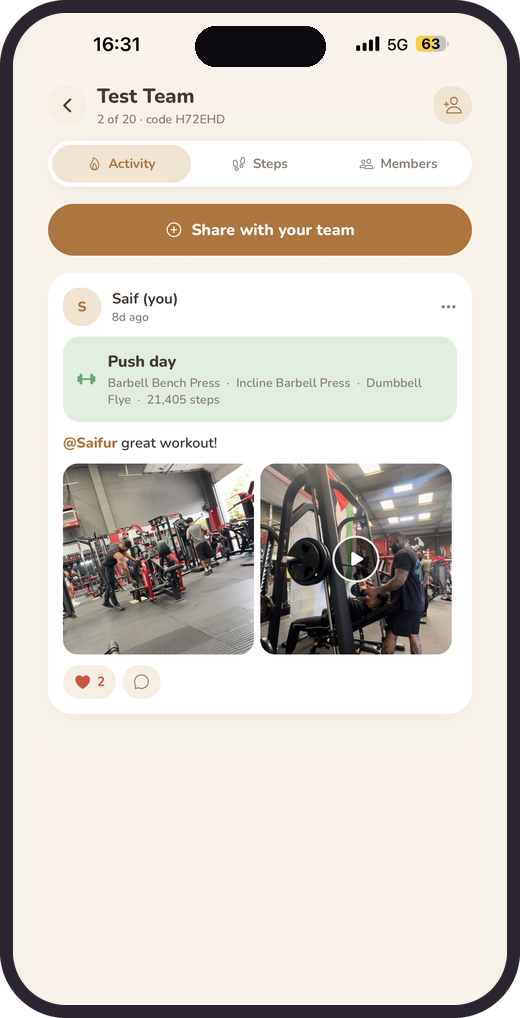
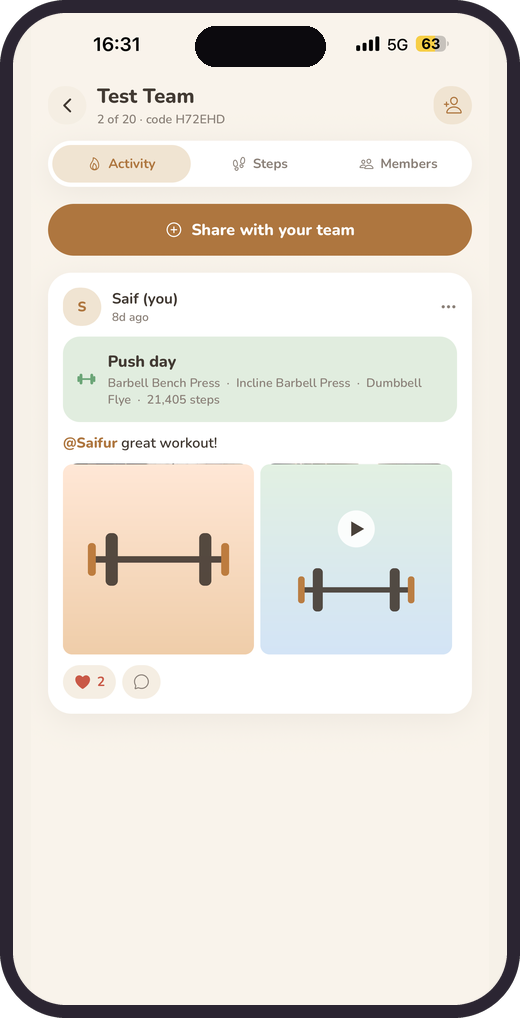
site: frame the journey as the app's flow, and redraw the team media
The section was telling a twelve week transformation story when what it
actually shows is the order you meet the app in. Reframed as a walk
through the screens.

- Nav reads "Your Journey"; the section is now "Your journey, screen by
  screen", and the beats are steps in a flow (Setup, Your training, Your
  meals, Logging, Sola, Your team, Recovery, Progress) rather than dates
  on a calendar.
- The HUD keeps the daily rings and the trend chart, which are real app
  features, and drops the "% sculpted" and "day streak" counters that
  only existed to sell the twelve week arc.
- The team feed screenshot carried photos and video of identifiable
  people. Those are replaced with illustrated media tiles drawn in the
  app's own palette, so the feature still reads without putting anyone's
  face on a public marketing page. No stock photography, so no licensing
  question either.

Claude-Session: https://claude.ai/code/session_01JHoWqHPgGi7JDoy4vgxEGf

Changed region(s): [[0.1231, 0.4568, 0.8923, 0.6699]]

diff --git a/index.html b/index.html
@@ -428,7 +428,7 @@
   <nav>
     <a href="#top" class="wordmark" style="font-size:22px; color:var(--cocoa)">Sculpt<span>R</span></a>
     <div class="links">
-      <a href="#journey">The journey</a>
+      <a href="#journey">Your Journey</a>
       <a href="#team">Teams</a>
       <a href="#features">Features</a>
       <a href="#screens">Screens</a>
@@ -491,7 +491,7 @@
     </div>
 
     <a class="cue" href="#journey">
-      <span>See how the first twelve weeks go</span>
+      <span>See how the app works</span>
       <i aria-hidden="true"></i>
     </a>
   </section>
@@ -499,11 +499,11 @@
   <!-- ============================ JOURNEY ============================ -->
   <!-- One sticky stage, six beats. Scroll position drives the phone's rotation,
        which screenshot is showing, the rings, the weight readout and the trend line. -->
-  <section id="journey" class="journey" aria-label="How the app works over twelve weeks">
+  <section id="journey" class="journey" aria-label="A walk through the app, screen by screen">
     <div class="wrap">
       <div class="sec-head reveal">
-        <h2>Watch a plan take shape</h2>
-        <p>Scroll through twelve weeks with SculptR, from your first day to a body that moved.</p>
+        <h2>Your journey, screen by screen</h2>
+        <p>Scroll through the whole app, from the questions you answer first to the plan that keeps retuning itself.</p>
       </div>
     </div>
 
@@ -515,7 +515,7 @@
 
           <div class="beats" id="beats">
             <article class="beat" data-shot="0">
-              <span class="kicker"><i>1</i> Day 1 · Setup</span>
+              <span class="kicker"><i>1</i> Setup</span>
               <h3>Answer a few questions. That is the whole setup.</h3>
               <p>Your goal, your gear, how you like to train and what you will not eat. Home opens with four rings waiting to be closed.</p>
               <ul><li>Goal set</li><li>Rings 0/4</li><li>Streak starts today</li></ul>
@@ -523,7 +523,7 @@
             </article>
 
             <article class="beat" data-shot="1">
-              <span class="kicker"><i>2</i> Day 1 · Training</span>
+              <span class="kicker"><i>2</i> Your training</span>
               <h3>Your training is written while you wait.</h3>
               <p>Sessions built around the equipment you actually have, the days you can train, and nothing that aggravates an old injury.</p>
               <ul><li>Around your gear</li><li>Works with injuries</li><li>Swap any session</li></ul>
@@ -531,7 +531,7 @@
             </article>
 
             <article class="beat" data-shot="2">
-              <span class="kicker"><i>3</i> Day 1 · Meals</span>
+              <span class="kicker"><i>3</i> Your meals</span>
               <h3>A meal blueprint to match, and a day to check in.</h3>
               <p>Calories and macros set for your goal, built from food you actually eat. Pick a day each week to tell Sola how it went, and she tunes the plan only if it needs it.</p>
               <ul><li>2160 kcal a day</li><li>Protein first</li><li>Check in weekly</li></ul>
@@ -539,7 +539,7 @@
             </article>
 
             <article class="beat" data-shot="3">
-              <span class="kicker"><i>4</i> Week 1 · Logging</span>
+              <span class="kicker"><i>4</i> Logging</span>
               <h3>Logging a day takes about thirty seconds.</h3>
               <p>Scan a barcode, search millions of foods, or snap the plate and let Sola read the calories and macros off the photo.</p>
               <ul><li>Barcode and database</li><li>AI photo scan</li><li>Weight and steps</li></ul>
@@ -547,7 +547,7 @@
             </article>
 
             <article class="beat" data-shot="4">
-              <span class="kicker"><i>5</i> Week 2 · Sola</span>
+              <span class="kicker"><i>5</i> Sola, your coach</span>
               <h3>Ask anything, at the moment you need it.</h3>
               <p>Allergic to oats? Gym busy? Not sure the form is right? Sola swaps the food, rewrites the session and answers in seconds.</p>
               <ul><li>Food swaps</li><li>Form checks</li><li>Plan tweaks</li></ul>
@@ -555,7 +555,7 @@
             </article>
 
             <article class="beat" data-shot="5">
-              <span class="kicker"><i>6</i> Week 3 · Your team</span>
+              <span class="kicker"><i>6</i> Your team</span>
               <h3>Bring your people. It is easier with company.</h3>
               <p>Share the session you just finished with photos or a video, tag whoever trained with you, and let the step race run all day.</p>
               <ul><li>Up to 20 in a team</li><li>Photos and video</li><li>Likes and comments</li></ul>
@@ -563,7 +563,7 @@
             </article>
 
             <article class="beat" data-shot="6">
-              <span class="kicker"><i>7</i> Week 6 · Recovery</span>
+              <span class="kicker"><i>7</i> Recovery</span>
               <h3>See what is fresh and what still needs a day.</h3>
               <p>Every session you log paints your muscle map, so you know which groups have recovered before you pick tomorrow&rsquo;s training.</p>
               <ul><li>Ten muscle groups</li><li>Recovery at a glance</li><li>Your week in numbers</li></ul>
@@ -571,9 +571,9 @@
             </article>
 
             <article class="beat" data-shot="7">
-              <span class="kicker"><i>8</i> Week 12 · Progress</span>
-              <h3>The plan reshaped every week. So did you.</h3>
-              <p>Your weekly weight feeds straight back into your calories and your cardio, so the plan you finish on is nothing like the one you started with.</p>
+              <span class="kicker"><i>8</i> Progress</span>
+              <h3>The plan keeps up with you.</h3>
+              <p>Your weight and your check in feed straight back into your calories and your cardio, so the plan never sits still while your body is changing.</p>
               <ul><li>Weekly recalibration</li><li>Trend, not daily noise</li><li>Streak intact</li></ul>
               <img class="beat-shot" src="assets/06-progress.png" alt="Progress screen with weight trend" loading="lazy" />
             </article>
@@ -630,9 +630,9 @@
             </div>
 
             <div class="hud-card">
-              <div class="hud-title">Weight trend</div>
+              <div class="hud-title">Your trend</div>
               <div class="readout"><b id="kg">84.0</b><small>kg</small></div>
-              <div class="delta"><span id="sculpted">0</span>% sculpted · <span id="streak">0</span> day streak</div>
+              <div class="delta" id="delta">The trend, not the daily noise</div>
               <svg class="spark" viewBox="0 0 200 56">
                 <path class="area" id="spark-area" d="" />
                 <path id="spark-line" d="" pathLength="100" stroke-dasharray="100" stroke-dashoffset="100" />
@@ -643,7 +643,7 @@
         </div>
 
         <div class="rail" id="rail" aria-label="Jump to a stage of the journey"></div>
-        <p class="journey-note">Figures shown are the app's example data. Your plan, and your pace, are your own.</p>
+        <p class="journey-note">Screens and figures are the app&rsquo;s own example data.</p>
         </div>
       </div>
     </div>
@@ -985,7 +985,7 @@
   var screens = [].slice.call(document.querySelectorAll('#screen-stack img'));
   var journeyPhone = document.getElementById('journey-phone');
   var rail = document.getElementById('rail');
-  var RAIL_LABELS = ['Day 1', 'Training', 'Meals', 'Week 1', 'Sola', 'Team', 'Recovery', 'Week 12'];
+  var RAIL_LABELS = ['Setup', 'Training', 'Meals', 'Logging', 'Sola', 'Team', 'Recovery', 'Progress'];
   var N = beats.length;
 
   if (!reduce && track) {
@@ -1022,8 +1022,6 @@
     var rings = [0, 1, 2, 3].map(function (i) { return document.getElementById('r' + i); });
     var arc = document.getElementById('arc-fill');
     var kgEl = document.getElementById('kg');
-    var sculptedEl = document.getElementById('sculpted');
-    var streakEl = document.getElementById('streak');
 
     // The beats sit on top of each other, so the box needs to be as tall as the
     // tallest one, measured rather than guessed, or long copy spills over the HUD.
@@ -1100,10 +1098,8 @@
         rings[r].setAttribute('stroke-dashoffset', (100 - 100 * clamp(p * 1.25 - r * 0.06, 0, 1)).toFixed(2));
       }
 
-      var e = smooth(p);
-      kgEl.textContent = (84.0 - 5.6 * e).toFixed(1);
-      sculptedEl.textContent = Math.round(64 * e);
-      streakEl.textContent = Math.round(84 * p);
+      // The readout tracks the line being drawn beside it, nothing more.
+      kgEl.textContent = (84.0 - 5.6 * smooth(p)).toFixed(1);
 
       line.setAttribute('stroke-dashoffset', (100 - 100 * p).toFixed(2));
       area.style.opacity = p.toFixed(2);
